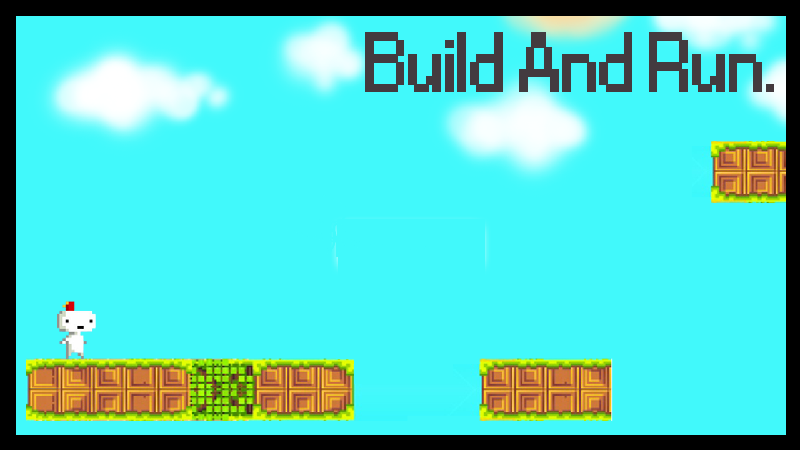
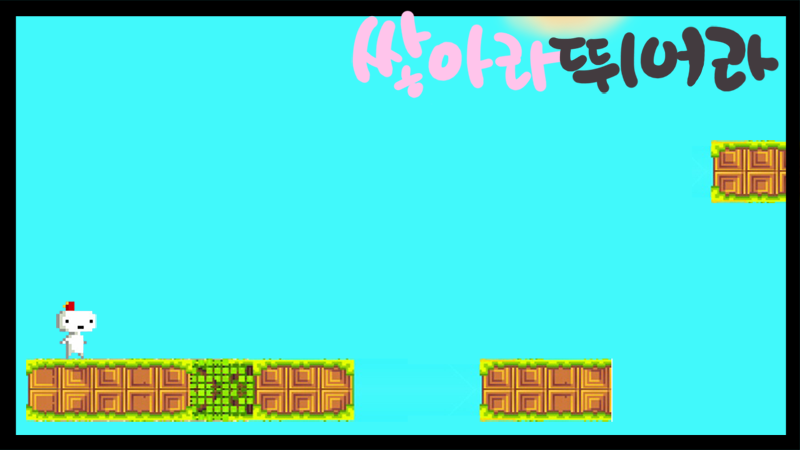
151208

diff --git a/프로그래밍/FrozenTetris/PythonFrozen1/PythonFrozen1.py b/프로그래밍/FrozenTetris/PythonFrozen1/PythonFrozen1.py
@@ -38,6 +38,8 @@ class NetworkListener(ConnectionListener):
     def Network_gameStart(self, data):
         self.bStart = True
         self.gameid = data["gameid"]
+        sendServer({"action":"userInfo", "gameid":data["gameid"]})
+
     def Network_fezMove(self, data):
         global fezMoveLeft, fezMoveRight, fezJump, fezFall, c_time
         if data["turn"] == "on":
@@ -89,6 +91,12 @@ class NetworkListener(ConnectionListener):
         
     def Network_moveComponents(self, data):
         moveComponents()
+
+    def Network_outUser(self, data):
+        global NETWORK
+        NETWORK.bStart = False
+        self.gameid = "0"
+        sendServer({"action":"userInfo", "gameid":self.gameid})
 
 
 ## functions
@@ -181,7 +189,7 @@ def dataProcess():
     # 2인접속시 실행 
     #if NETWORK.bStart:
     #   moveComponents()
-    if NETWORK.bStart:
+    if STATE=="GAME" and NETWORK.bStart:
         if NETWORK.gameid == USER.player0.value:
             #플레이어0만 자기 시간으로 moveComponents
             moveComponents()
@@ -193,7 +201,7 @@ def dataProcess():
         imgSprite()
         enemyImage()
         coinImage()
-        if NETWORK.bStart:
+        if STATE=="GAME" and NETWORK.bStart:
             SCORE += SCREEN_SPEED
 
     if NETWORK.gameid == USER.player0.value:    # 페즈의 움직임
@@ -202,7 +210,7 @@ def dataProcess():
         if collisionBlockDown(fez['leftLegX'],fez['rightLegX'],fez['botY']+5) == False:
             fallFez() 
 
-    if NETWORK.bStart:
+    if STATE=="GAME" and NETWORK.bStart:
         moveEnemy()
         fallEnemy()
 
@@ -233,7 +241,7 @@ def dataProcess():
     return
 
 def renderProcess():
-    DISPLAYSURF.fill(BLACK)
+    DISPLAYSURF.fill(LIGHTBLUE)
     drawBackGround()
     drawMovingTetris()
     drawBoard()
@@ -256,7 +264,7 @@ def mainLoop():
     inputProcess()
     if curTime - g_time >= 0.03:
         dataProcess()
-        if NETWORK.bStart and NETWORK.gameid == USER.player0.value and STATE != "GAMEOVER":
+        if STATE=="GAME" and NETWORK.bStart and NETWORK.gameid == USER.player0.value and STATE != "GAMEOVER":
             sendServer({"action":"fezPos", "x":fez["topX"], "y":fez["topY"], "jump":fez["jump"]})
         g_time = time.time()
     renderProcess()
@@ -802,9 +810,9 @@ def coinImage():
             m_Coin[i].img = 0
 
 def coinCheck():
-    cnt=0
+    cnt = 0
     for i in range(len(m_Coin)):
-        cRect = pygame.Rect((m_Coin[i].x,m_Coin[i].y,m_Coin[i].width,m_Coin[i].height))
+        cRect = pygame.Rect((m_Coin[i].x, m_Coin[i].y, m_Coin[i].width, m_Coin[i].height))
         if cRect.colliderect(fez['rect']):
             m_Coin[i].bPop = True
             cnt+=1
@@ -814,6 +822,7 @@ def coinPop():
     for i in range(len(m_Coin)):
         if m_Coin[i].bPop:
             m_Coin.pop(i)
+            break;
 
 # render
 def drawBackGround():
@@ -829,9 +838,14 @@ def drawBoard():
     pygame.draw.rect(DISPLAYSURF, BORDERCOLOR, (TETRIS_LEFT_GAP, TETRIS_TOP_GAP, (BOARD_WIDTH_CNT * BOXSIZE) + 8, (BOARD_HEIGHT_CNT * BOXSIZE) + 8), 5)
 
 def drawBound():
-    pygame.draw.rect(DISPLAYSURF, BLACK, (0,TETRIS_TOP_GAP-5,TETRIS_LEFT_GAP-2,BOARD_HEIGHT_CNT*BOXSIZE+30))
-    # pygame.draw.rect(DISPLAYSURF, BLACK, (TETRIS_LEFT_GAP+BOARD_WIDTH_CNT*BOXSIZE+5,TETRIS_TOP_GAP-5,0,BOARD_HEIGHT_CNT*BOXSIZE+30))
-    pygame.draw.rect(DISPLAYSURF, BLACK, (TETRIS_LEFT_GAP+BOARD_WIDTH_CNT*BOXSIZE+5,TETRIS_TOP_GAP-5,1,BOARD_HEIGHT_CNT*BOXSIZE+30))
+    # left
+    pygame.draw.rect(DISPLAYSURF, BLACK, (0, 0, TETRIS_LEFT_GAP-2, WINDOWHEIGHT))
+    # right
+    pygame.draw.rect(DISPLAYSURF, BLACK, (WINDOWWIDTH-TETRIS_LEFT_GAP+10, 0, WINDOWWIDTH, WINDOWHEIGHT))
+    # top
+    pygame.draw.rect(DISPLAYSURF, BLACK, (0, 0, WINDOWWIDTH, TETRIS_TOP_GAP+2))
+    # bottom
+    pygame.draw.rect(DISPLAYSURF, BLACK, (0, TETRIS_TOP_GAP + BOXSIZE*BOARD_HEIGHT_CNT +5, WINDOWWIDTH, WINDOWHEIGHT))
 
 def drawBox(y,x,color):
     if color==BLANK:
@@ -971,10 +985,20 @@ def sendServer(data):
     connection.Send(data)
 
 def title():
-    global STATE
-    titleimg = pygame.image.load('images/title.png').convert()
+    global STATE, title_cloud_x, b_title_cloud, DISPLAYSURF, NETWORK
+
+    # background
+    titleimg = pygame.image.load('images/title.png')
     titlerect = titleimg.get_rect()
     DISPLAYSURF.blit(titleimg, titlerect)
+    cloudimg = pygame.image.load('images/title_cloud.png')
+    cloudrect = cloudimg.get_rect()
+    DISPLAYSURF.blit(cloudimg, cloudrect.move(16,16), Rect(title_cloud_x, 0, titlerect.w-30, cloudrect.h))
+    title_cloud_x += SCREEN_SPEED
+    if title_cloud_x >= cloudrect.w:
+        title_cloud_x = 30-titlerect.w
+
+    # button
     button_1 = pygame.image.load('images/button_1.png')
     button1_rect = button_1.get_rect()
     button1_rect = button1_rect.move(355,210)
@@ -996,23 +1020,38 @@ def title():
     b4 = DISPLAYSURF.blit(button_4, button4_rect)
     pygame.display.flip()
 
-    while True:
-        for event in pygame.event.get():
-            if event.type == pygame.MOUSEBUTTONDOWN and event.button == 1:
-                ## if mouse is pressed get position of cursor ##
-                pos = pygame.mouse.get_pos()
-                ## check if cursor is on button ##
-                if b1.collidepoint(pos):
+
+    for event in pygame.event.get():
+        if event.type == pygame.MOUSEBUTTONDOWN and event.button == 1:
+            ## if mouse is pressed get position of cursor ##
+            pos = pygame.mouse.get_pos()
+            ## check if cursor is on button ##
+            if b1.collidepoint(pos):
+                if NETWORK.bStart:
                     print("게임시작")
                     STATE = "GAME"
-                if b2.collidepoint(pos):
-                    print("이어하기")
-                if b3.collidepoint(pos):
-                    print("크레딧")
-                if b4.collidepoint(pos):
-                    print("게임종료")
-                    wnate()
-            return
+            elif b2.collidepoint(pos):
+                print("이어하기")
+            elif b3.collidepoint(pos):
+                print("크레딧")
+            elif b4.collidepoint(pos):
+                print("게임종료")
+                terminate()
+        return
+
+    # User Server 접속
+    font = pygame.font.Font(None, 25)
+    text = font.render("Player1" , True, (255, 255, 255))
+    DISPLAYSURF.blit(text,text.get_rect().move(20,480))
+    text = font.render("O" , True, GREEN)
+    DISPLAYSURF.blit(text,text.get_rect().move(90,480))
+    text = font.render("Player2" , True, (255, 255, 255))
+    DISPLAYSURF.blit(text,text.get_rect().move(20,500))
+    if NETWORK.bStart:
+        text = font.render("O" , True, GREEN)
+    else:
+        text = font.render("O" , True, GRAY)
+    DISPLAYSURF.blit(text,text.get_rect().move(90,500))
 
 
 def Gameover(): 
@@ -1036,37 +1075,31 @@ def main():
     FPSCLOCK = pygame.time.Clock()
     DISPLAYSURF = pygame.display.set_mode((WINDOWWIDTH,WINDOWHEIGHT))
     pygame.display.set_caption('EDGE')
-    # showTextScreen('EDGE')
-    # pygame.draw.rect(DISPLAYSURF, BORDERCOLOR, (TETRIS_LEFT_GAP, TETRIS_TOP_GAP, (TETRIS_LEFT_GAP * BOXSIZE) + 8, (BOARD_HEIGHT_CNT * BOXSIZE) + 8), 5)
 
-    #while checkForKeyPress() == None:
-    #    pygame.display.update()
-    #    FPSCLOCK.tick()
-    
-    # start game
+
+    NETWORK = NetworkListener()
+    while STATE == "TITLE":
+        title()
+        connection.Pump()
+        NETWORK.Pump()
+
+    #opening = pygame.image.load('images/opening.png')
+    #opening_rect = opening.get_rect()
+    #opening = DISPLAYSURF.blit(opening, opening_rect)
+    #pygame.display.flip()
+    #pygame.time.delay(3000)
+
+    g_time = time.time()
+    g_time -= 1
+    initProcess()
     while True:
-        if STATE == "TITLE":
-            title()
-        elif STATE == "GAME":
-            #opening = pygame.image.load('images/opening.png')
-            #opening_rect = opening.get_rect()
-            #opening = DISPLAYSURF.blit(opening, opening_rect)
-            #pygame.display.flip()
-            #pygame.time.delay(3000)
+        connection.Pump()
+        NETWORK.Pump()
+        mainLoop()
+        if STATE == "GAMEOVER":
+            break
 
-            # start game
-            g_time = time.time()
-            g_time -= 1
-            initProcess()
-            NETWORK = NetworkListener()
-            while True:
-                connection.Pump()
-                NETWORK.Pump()
-                mainLoop()
-                if STATE == "GAMEOVER":
-                    break
-        elif STATE == "GAMEOVER":
-            Gameover()
+    Gameover()
 
 
 ## function calls

diff --git a/프로그래밍/FrozenTetris/PythonFrozen1/server.py b/프로그래밍/FrozenTetris/PythonFrozen1/server.py
@@ -5,9 +5,13 @@ from time import sleep
 class ClientChannel(Channel):
     def __init__(self, *args, **kwargs):
         Channel.__init__(self, *args, **kwargs)
+        self.gameid = "0"
+
+    def Network_userInfo(self, data):
+        self.gameid = data["gameid"]
 
     def Close(self):
-        self._server.DelPlayer(self)
+        self._server.DelPlayer(self, self.gameid)
 
     def Network_fezMove(self, data):
         self._server.FezMove(data["move"], data["turn"])
@@ -53,12 +57,15 @@ class FrozenServer(Server):
             self.queue.player0.Send({"action": "gameStart", "gameid":0})    # fez
             self.queue.player1.Send({"action": "gameStart", "gameid":1})    # block
 
-    def DelPlayer(self, player):
-        print("Deleting Player" + str(player.addr))
+    def DelPlayer(self, player, id):
+        print("Deleting player" + str(id) + " " + str(player.addr))
         # 변수 리셋
-        self.queue = None
-        self.currentIdx = 0
-        #exit()
+        self.currentIdx = 1
+        if int(id) == 0:
+            self.queue.player0 = self.queue.player1
+        self.queue.player0.Send({"action":"outUser"})
+        self.queue.player1 = None
+
 
     def PrintStr(self, str):
         print(str)

diff --git a/프로그래밍/FrozenTetris/PythonFrozen1/myHeader.py b/프로그래밍/FrozenTetris/PythonFrozen1/myHeader.py
@@ -10,7 +10,7 @@ WINDOWHEIGHT = 540
 SCREEN_SPEED = 1
 MOVEBLOCK = 0
 MOVECNT = 0
-STATE = "GAME"
+STATE = "TITLE"
 SCORE = 0
 
 ## tetris
@@ -32,10 +32,10 @@ GRAY        = (185, 185, 185)
 BLACK       = (  0,   0,   0)
 RED         = (155,   0,   0)
 LIGHTRED    = (175,  20,  20)
-GREEN       = (  0, 155,   0)
+GREEN       = (  0, 255,   0)
 LIGHTGREEN  = ( 20, 175,  20)
 BLUE        = (  0,   0, 155)
-LIGHTBLUE   = ( 20,  20, 175)
+LIGHTBLUE   = ( 90,  170, 200)
 YELLOW      = (155, 155,   0)
 LIGHTYELLOW = (175, 175,  20)
 COLORS      = (     BLUE,      GREEN,      RED,      YELLOW)
@@ -289,6 +289,9 @@ fez = {'img':FEZ_IMG_RIGHT,'dir':'right','width':FEZ_WIDTH_SIZE,'height':FEZ_HEI
        'leftLegX':FEZ_START_X+FEZ_LEG_LEFT_GAP,'rightLegX':FEZ_START_X+FEZ_WIDTH_SIZE-FEZ_LEG_RIGHT_GAP,
        'botY':FEZ_START_Y+FEZ_HEIGHT_SIZE,'jump':9999,'speed':FEZ_SPEED,'stage':0}
 
+fez['rect'] = pygame.Rect((fez['topX'],fez['topY'],fez['width'],fez['height']))
+
+
 fezMoveLeft = False
 fezMoveRight = False
 fezJump = False
@@ -297,3 +300,7 @@ fezFall = False
 g_time = time.time()
 f_time = time.time()
 c_time = time.time()
+
+title_cloud_x = 0
+title_cloud_gap = 0
+b_title_cloud = False
